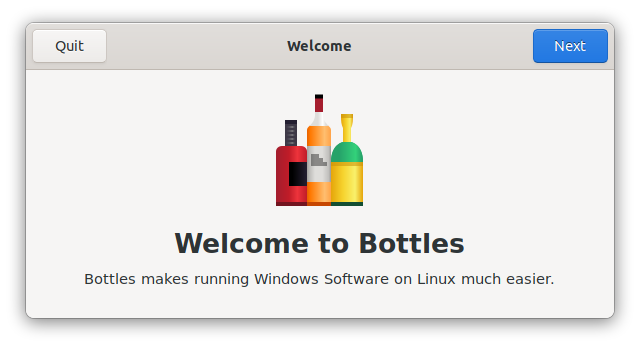
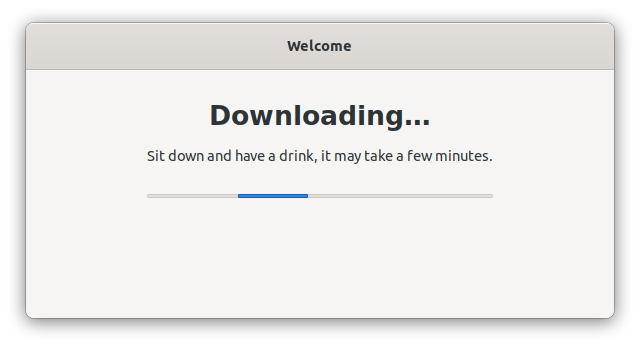
GitBook: [master] 22 pages and 5 assets modified

diff --git a/components/runners.md b/components/runners.md
@@ -32,11 +32,17 @@ We personally recommend using the Proton runner only in special cases where ther
 
 ## Runner updates
 
-You can install new runners in one click from Bottles Preferences.
+You can install new runners by clicking the download button next the runner of your interest.
 
-![Runners management from Bottles Preferences page.](../.gitbook/assets/screenshot-from-2021-01-05-18-58-16.png)
+![Runners management from Bottles preferences](../.gitbook/assets/image%20%2815%29.png)
 
 If you're feeling fearless, you can enable Release Candidates to download and then test premature versions of Wine, which may include greater software compatibility at the cost of bugs and possible regressions.
 
-![Enable Release Candidate from Runners preferences in the General tab.](../.gitbook/assets/screenshot-from-2021-01-05-19-36-11.png)
+![Pre-release](../.gitbook/assets/image%20%2814%29.png)
+
+### How to add unlisted runners?
+
+Runners are installed via a community-driven Bottles [repository](https://github.com/bottlesdevs/components).
+
+If the runner you are looking for is not present, you can add it yourself by opening a Pull Request in the repository, [providing the runner manifest](https://github.com/bottlesdevs/components/blob/main/README.md#how-to-contribute).
 

diff --git a/getting-started/first-run.md b/getting-started/first-run.md
@@ -6,7 +6,7 @@ description: Your first experience with Bottles starts here.
 
 At the first start you will be shown the Onboard, which is a wizard that will explain some concepts and help you configure Bottles.
 
-![Bottles Onboard](../.gitbook/assets/image%20%2812%29.png)
+![Bottles Onboard](../.gitbook/assets/image%20%2813%29.png)
 
 Once the key concepts of Bottles have been introduced, a runner \(~ 70MB\) will be downloaded, which is necessary for creating your bottles.
 
@@ -14,7 +14,7 @@ Once the key concepts of Bottles have been introduced, a runner \(~ 70MB\) will 
 We cannot offer these files with Bottles as these have different release cycles.
 {% endhint %}
 
-![Downloading the first runner](../.gitbook/assets/image%20%2811%29.png)
+![Downloading the first runner](../.gitbook/assets/image%20%2812%29.png)
 
 This is a one time operation, you can use the same runner for all your bottles or install others from the Bottles preferences.
 
